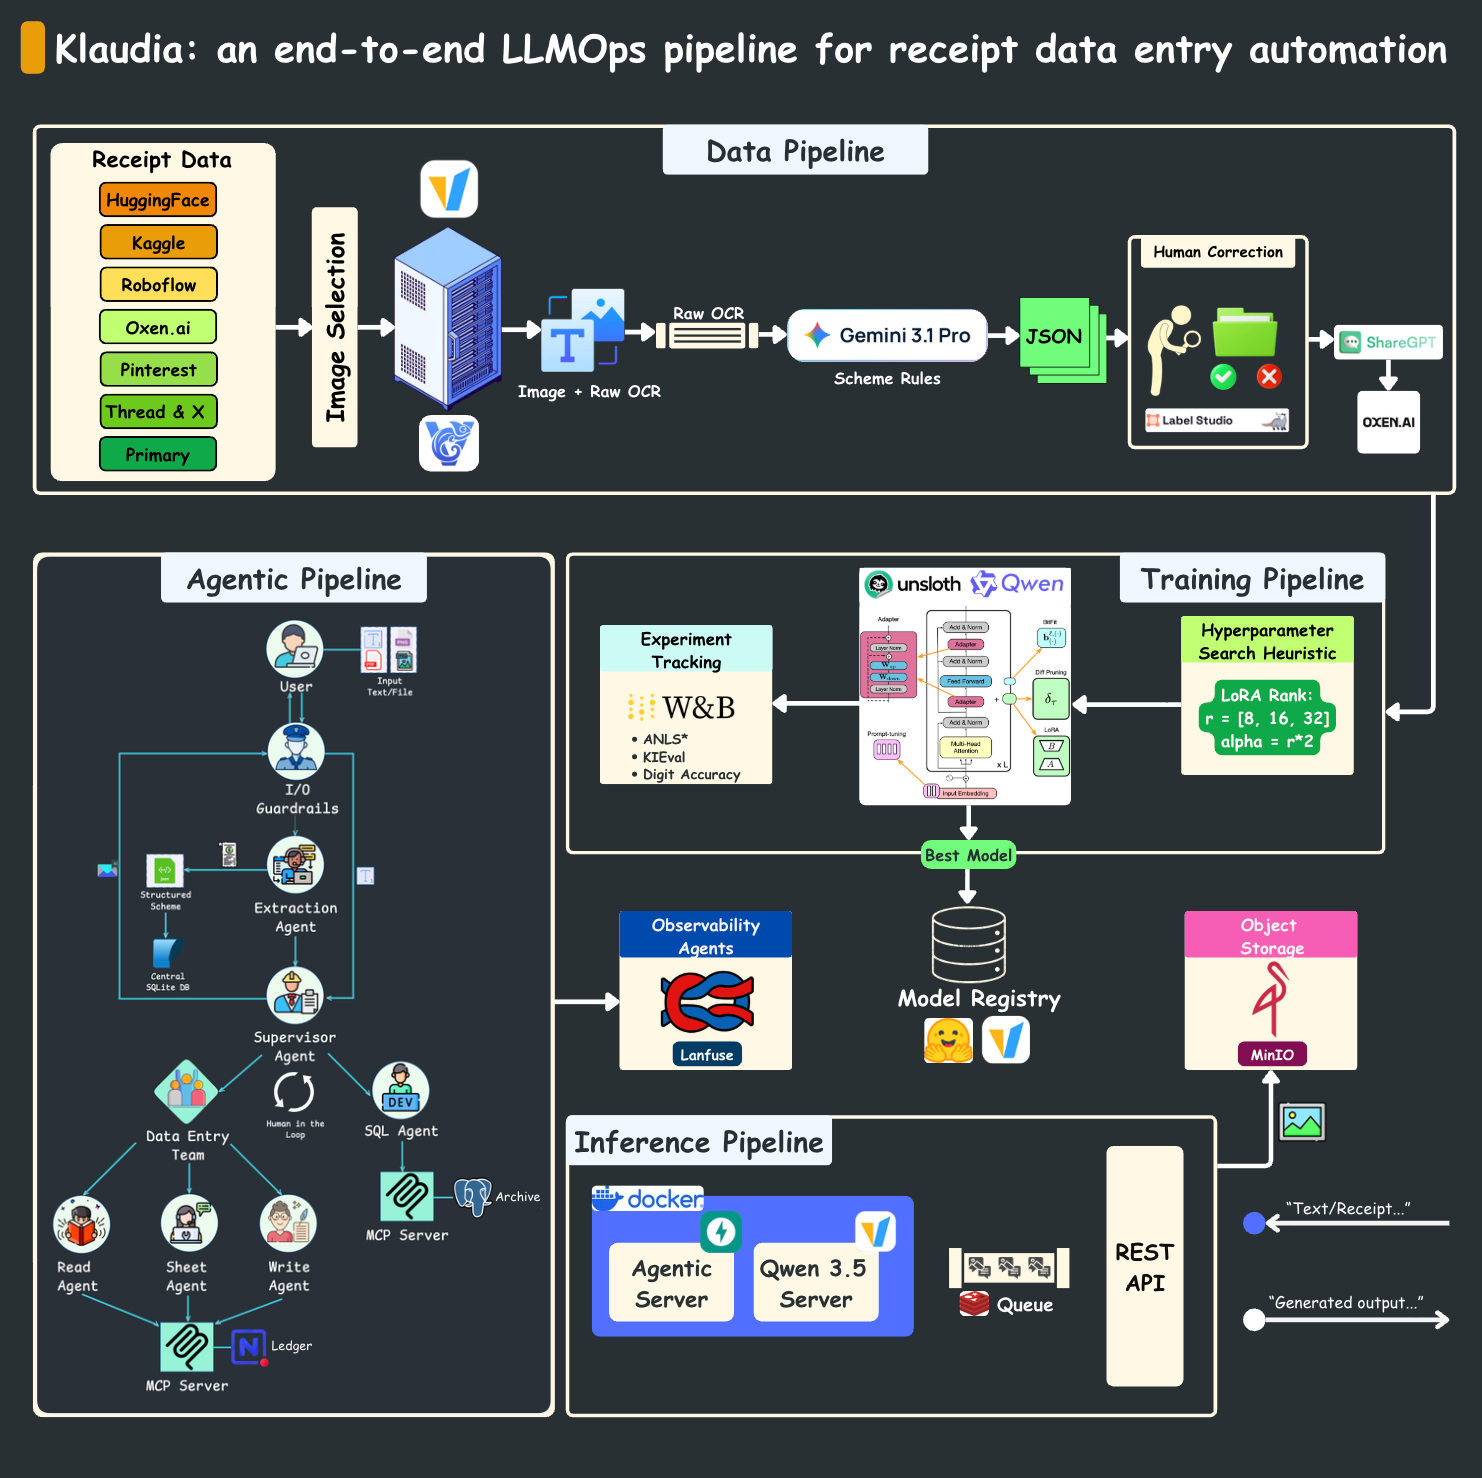
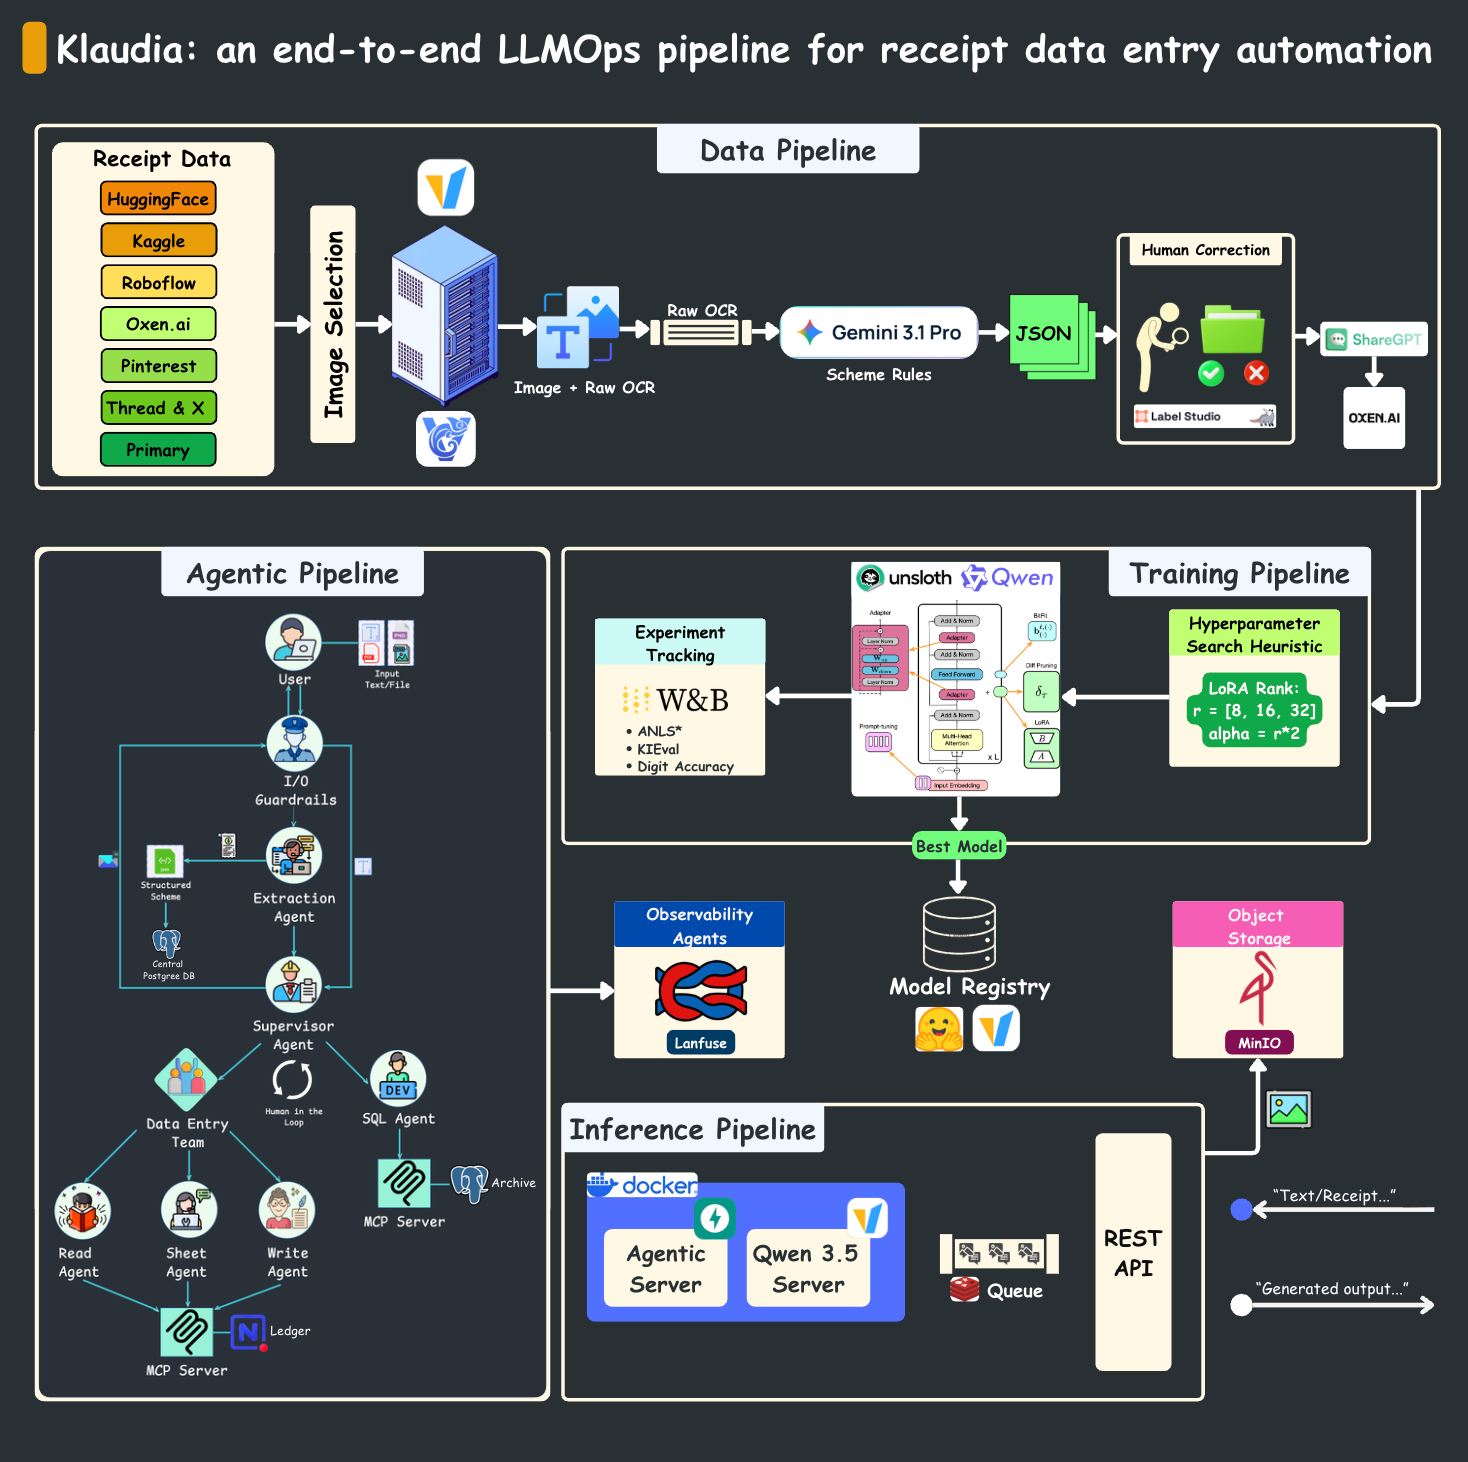
refactor(arch): migrate image pipeline from mcp to ledger and archive
Migrate the storage and tracking architecture:
- Move from MCP (Google Sheets, SQLite) to Ledger and Archive systems
- Integrate NocoDB and PostgreSQL as the new backend infrastructure

diff --git a/README.md b/README.md
@@ -1,5 +1,5 @@
 <h1 align="center">
-  <img src="https://readme-typing-svg.demolab.com?font=Chakra+Petch&weight=600&size=50&duration=1&pause=1000&color=000000&background=CCFF00&center=true&vCenter=true&repeat=false&width=1200&lines=Klaudia+%E2%80%94+The+Agentic+Accountant" alt="Title" />
+  <img src="https://readme-typing-svg.demolab.com?font=Chakra+Petch&weight=600&size=55&duration=1&pause=1000&color=000000&background=CCFF00&center=true&vCenter=true&repeat=false&width=1200&lines=Klaudia%3A+The+Agentic+Accountant" alt="Klaudia: The Agentic Accountant - Self-Hosted AI Bookkeeping Agent" />
 </h1>
 
 <div align="center">
@@ -16,22 +16,23 @@
 </p>
 
 <p align="center">
-  <img src="https://img.shields.io/badge/FastAPI-Backend-green" />
-  <img src="https://img.shields.io/badge/LangGraph-Agentic%20Workflow-blue" />
-  <img src="https://img.shields.io/badge/LangChain-Orchestration-blueviolet" />
+  <img src="https://img.shields.io/badge/FastAPI-Backend-07988a" />
+  <img src="https://img.shields.io/badge/LangGraph-Agentic%20Workflow-white" />
+  <img src="https://img.shields.io/badge/LangChain-Orchestration-7fc8ff" />
   <img src="https://img.shields.io/badge/PostgreSQL-Ledger%20%2B%20pgvector-336791" />
+  <img src="https://img.shields.io/badge/NocoDB-Grid%20View-3c4be7" />
   <img src="https://img.shields.io/badge/MCP-Tool%20Boundary-black" />
   <img src="https://img.shields.io/badge/mem0-Long%20Term%20Memory-ff6f00" />
   <img src="https://img.shields.io/badge/Deepseekv4-pro-4e6bfe" />
-  <img src="https://img.shields.io/badge/Qwen3.5-4B%20Fine%20Tuned-orange" />
+  <img src="https://img.shields.io/badge/Qwen3.5-4B%20Fine%20Tuned-623ae7" />
   <img src="https://img.shields.io/badge/vLLM-Model%20Serving-1f4b99" />
   <img src="https://img.shields.io/badge/Redis-Queue-red" />
   <img src="https://img.shields.io/badge/Taskiq-Workers-yellow" />
   <img src="https://img.shields.io/badge/MinIO-Object%20Storage-darkred" />
-  <img src="https://img.shields.io/badge/Langfuse-Observability-purple" />
+  <img src="https://img.shields.io/badge/Langfuse-Observability-e11411" />
   <img src="https://img.shields.io/badge/CircleCI-Pipeline-343434" />
   <img src="https://img.shields.io/badge/React%20Native-Mobile%20App-cyan" />
-  <img src="https://img.shields.io/badge/Docker-Self%20Hosted-blue" />
+  <img src="https://img.shields.io/badge/Docker-Self%20Hosted-1c63ed" />
 </p>
 
 ---
@@ -91,7 +92,7 @@ managed memory platform, no third-party vector store.
 
 ---
 
-## 🐸 Architecture
+## 🪆 Architecture
 
 <div align="center">
   <img src="https://github.com/Laoode/agentic-data-entry/blob/development/docs/LLMOps.png" alt="LLM Ops Pipeline">
@@ -203,7 +204,7 @@ any single model being available.
 
 ---
 
-## 🧠 Memory
+## 🔋 Memory
 
 Two tiers, because they fail differently.
 
@@ -243,7 +244,7 @@ autoscaling). This repository consumes an endpoint; it does not serve models.
 
 ---
 
-## 🚀 Running it
+## 📟 Running it
 
 ```bash
 docker compose up -d                  # Postgres, Redis, MinIO
@@ -256,7 +257,7 @@ docker compose --profile sandbox up -d   # isolated store for the evaluation sui
 ```
 
 ```bash
-uv run pytest tests/unit -q                                   # fast, hermetic
+uv run pytest tests/unit -q                                    # fast, hermetic
 MOCK_KIE=true SHEETS_BACKEND=ledger uv run pytest tests/e2e -q # full evaluation
 ```
 
@@ -318,6 +319,6 @@ truth of an organisation.**
 
 ## 🔰 Author
 
-**Yudhy Prayitno**
+**Yudhy McCodey**
 
 Building agentic systems for real-world financial automation.
